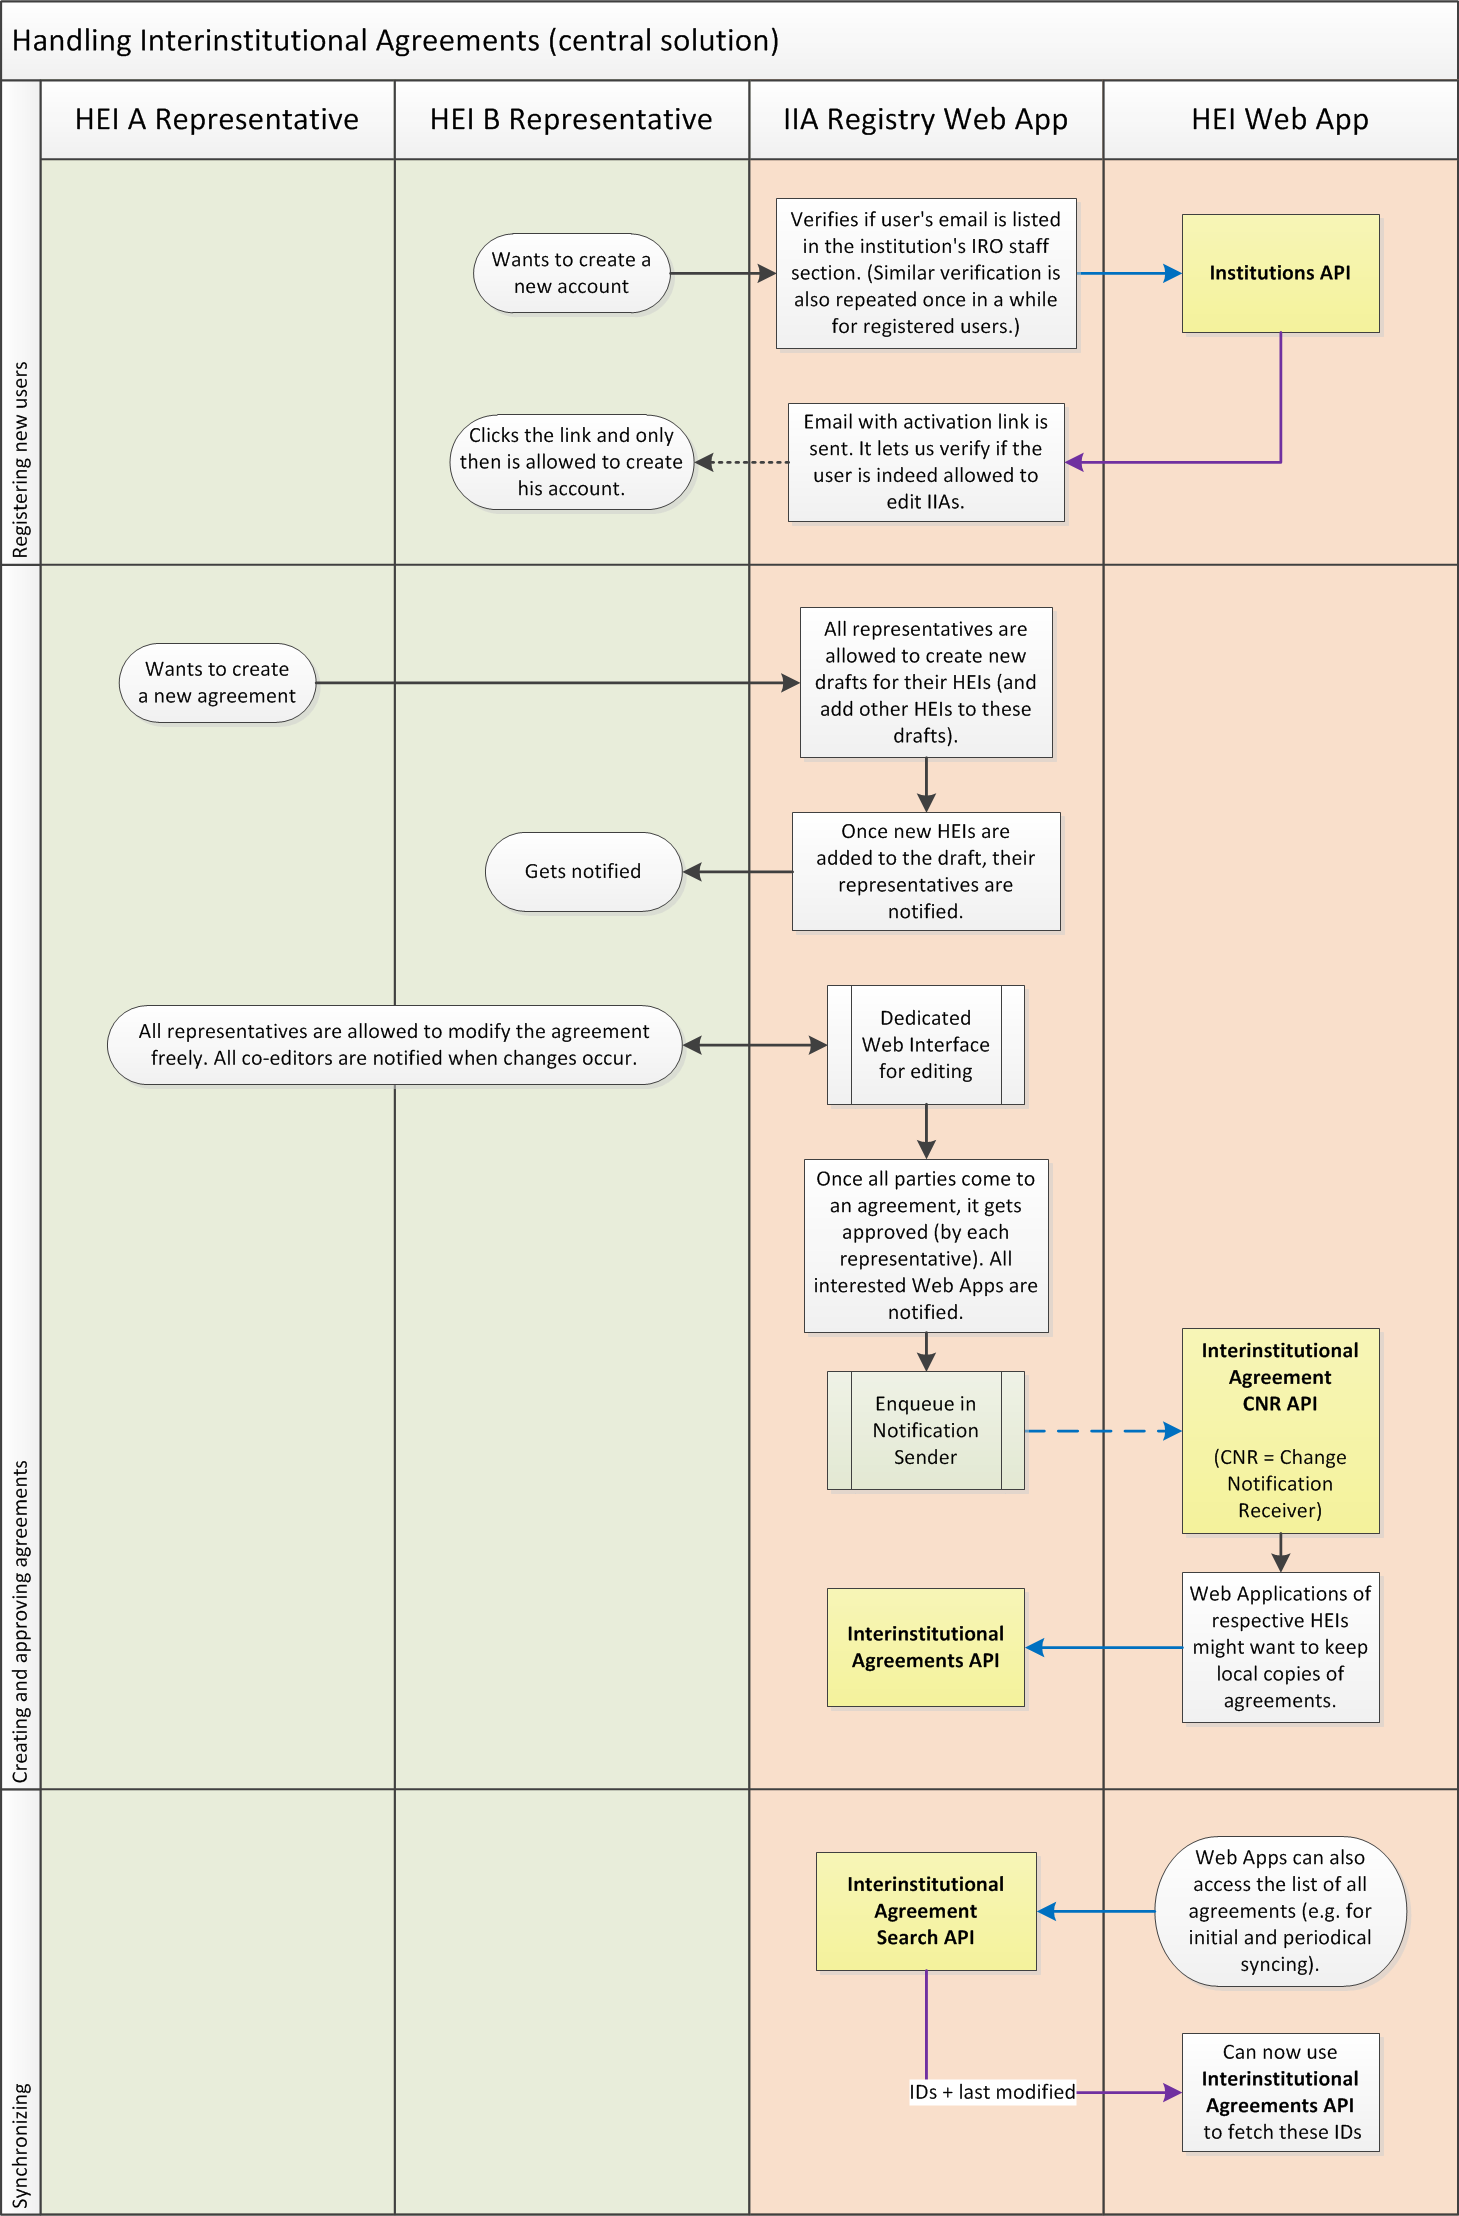
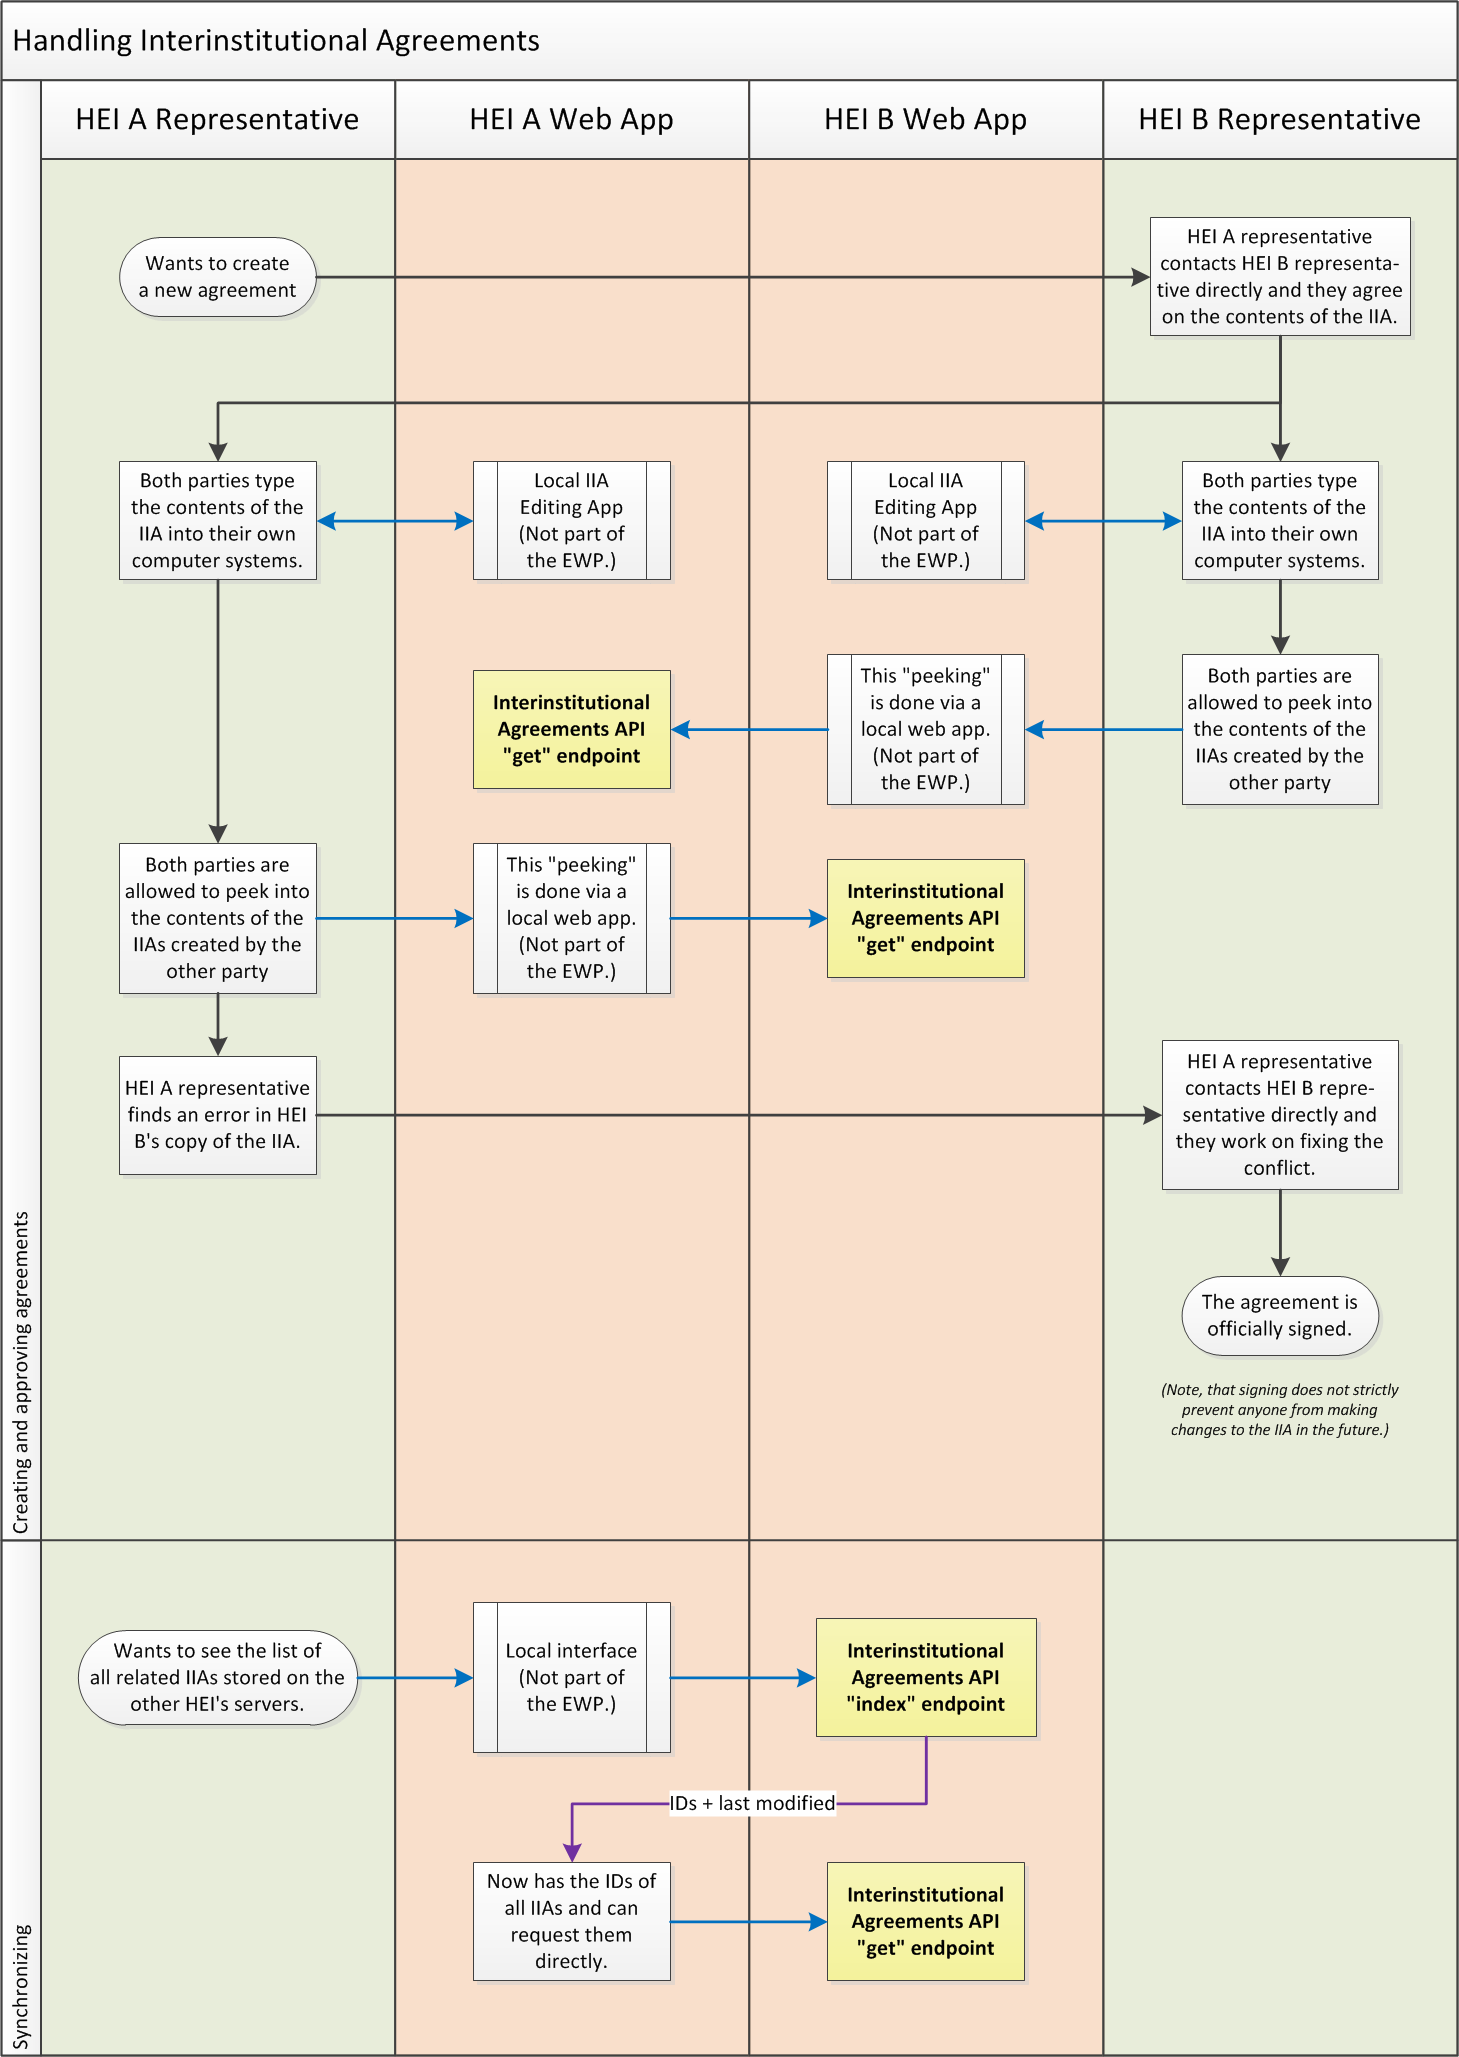
Describe the new changes to the IIA APIs
https://github.com/erasmus-without-paper/general-issues/issues/12#issuecomment-231486102

diff --git a/README.md b/README.md
@@ -16,8 +16,8 @@ useful to get a quick grasp on which APIs are used by whom and when.
 Accessing information on Institutions
 -------------------------------------
 
-These APIs allow the members of the EWP Network to discover basic
-information on other institutions and departments covered by the network. This
+The following APIs allow the members of the EWP Network to discover basic
+information on institutions and departments covered by other EWP Hosts. This
 kind of information is also known as **fact sheets**.
 
  * **[Institutions API][institutions-api]** - e.g. address, contact persons,
@@ -30,7 +30,19 @@ kind of information is also known as **fact sheets**.
    departments, e.g. address, contact persons, institutes or other kinds of
    subunits, etc.
 
-![Usage examples of Institution, Department and Fact Sheet APIs](flowcharts/fact-sheets.png)
+**Note:** While these enable you discover more information on EWP Hosts, the
+actual *index* of all EWP Hosts is provided by the [Registry Service]
+[registry-intro]).
+
+**Some examples of usage:**
+
+ * An IRO staff member wants to obtain contact details of some other IRO.
+ * Some automation script wants to obtain all email addresses of IRO members of
+   a specific HEI and notify them after some important event occurs.
+ * A student of one HEI wants to obtain a link to ECTS catalogue of some other
+   HEI.
+ * A developer wants to implement an autocomplete feature for searching
+   departments in a foreign institution.
 
 
 <a name="notification-senders"></a>
@@ -42,7 +54,7 @@ CNR stands for **Change Notification Receiver**, and it is a special class of
 API we use in EWP. We have already mentioned them in the [EWP Architecture]
 [architecture] document, but now we should explain how they work in detail.
 
-CNR is simply a callback URL for [push notifications]
+**CNR APIs are simply a callback URLs** for [push notifications]
 (https://en.wikipedia.org/wiki/Push_technology):
 
  * Partners subscribe for such notifications by implementing a chosen CNR API
@@ -59,7 +71,7 @@ CNR is simply a callback URL for [push notifications]
    temporary I/O errors caused by, for example, a malfunction on the receiver's
    servers.
 
-The following flowchart presents this process:
+The following flowchart presents the basic flow of the process:
 
 ![Example algorithm of a Notification Sender Daemon](flowcharts/notification-sender.png)
 
@@ -79,35 +91,63 @@ entities).
 Handling Interinstitutional Agreements (IIAs)
 ---------------------------------------------
 
-All HEIs taking part in the mobility process must sign an IIA first.
+All HEIs taking part in the mobility process sign an IIA first. Key facts about
+all such IIAs are stored in computer systems of all HEIs taking part of this
+IIA. **You can use the following APIs to synchronize these facts.**
 
-In order to use EWP Network in your mobility process, key facts about all IIAs
-MUST be stored in a central **EWP IIA repository**. It is a web application
-(with a user interface), which keeps track of all the changes and provides the
-latest copy of the agreement to all of the partners.
+* **[Interinstitutional Agreements API][iias-api]**:
 
-Related APIs:
+  - Implemented by each of the partners. (Not strictly required, but
+    RECOMMENDED.)
+  - `index` endpoint allows **HEI A** to access the list of all IIAs related to
+    **HEI A** stored on **HEI B**'s servers.
+  - `get` endpoint allows **HEI A** to access the content of an agreement
+    (IIA), exactly as it is currently stored on **HEI B**'s servers (and this
+    enables both HEIs to find inconsistencies more easily).
 
-* **[Interinstitutional Agreements API][iias-api]**
-
-  - Implemented by the IIA Repository, called by the institutions.
-  - Allows to access the exact contents of agreements (IIAs) by given IDs.
-
-* **[Interinstitutional Agreement Search API][iia-search-api]**
-
-  - Implemented by the IIA Repository, called by the institutions.
-  - Allows partners to fetch a list of all of their agreements stored in the
-    repository.
+    ![Handling IIAs](flowcharts/iias.png)
 
 * **[Interinstitutional Agreement CNR API][iia-cnr-api]**
 
-  - Implemented by *institutions*, called by the *IIA Repository* (reversed!).
-  - When implemented, it gets called whenever an IIA is updated. This allows
-    the partners to always have an up-to-date copy. [What's a CNR?][cnr]
+  - Implemented by each of the partners. (OPTIONAL.)
+  - When implemented, it gets called whenever an IIA is updated on the other
+    party's servers. This allows the partners to keep a close eye on all the
+    changes to the IIA copies throughout the network. [What's a CNR?][cnr]
 
-The following flowchart presents the entire process:
+    ![Example of IIA CNR API usage](flowcharts/iia-cnr.png)
 
-![Handling IIAs (central solution)](flowcharts/iias.png)
+
+Outgoing Mobility object
+------------------------
+
+In EWP's model, entire history of a single student mobility is enclosed in so
+called *Outgoing Mobility* object. This includes:
+
+ * Information about the student, optional photo, the ID of the related IIA,
+   identifiers of the sending and receiving institutions, etc.
+
+ * Nomination dates: when they were initially reported, when they were
+   approved, or even "un-approved", etc.
+
+ * Learning Agreements: How they looked initially, when they were initially
+   approved, how (and when) they were later changed, and by whom, and how
+   they looked "in the end". (Learning Agreements are modified quite often,
+   throughout the entire mobility.)
+
+ * Recognitions: Which of the courses in the Learning Agreement were recognized
+   by the sending institution after the mobility has ended.
+
+ * Course identifiers, arrival/departure dates, and many more.
+
+What's important to remember for now is that most of the mobility-related
+actions performed in EWP can be thought as **adding a new entry to the Outgoing
+Mobility timeline**.
+
+It's also worth noting, that partners are not required to implement all
+features of the mobility timeline. E.g. we allow the partners to implement
+nominations only, while leaving Learning Agreements to be implemented later on
+(see `<timeline-features-supported>` element in the [Outgoing Mobility Remote
+Update API][mobility-update-api]'s `manifest-entry.xsd`).
 
 
 <a name="common-workflow"></a>
@@ -118,39 +158,6 @@ Workflow in general
 All mobility-related features in EWP use a common set of APIs, and have a
 similar workflow. This chapter introduces some basic concepts, which we will
 later apply to specific use cases.
-
-
-### Outgoing Mobility object
-
-In EWP, entire history of a single student mobility is enclosed in so
-called *Outgoing Mobility* object. This includes:
-
- * Information about the student, optional photo, the ID of the related IIA,
-   identifiers of the sending and receiving institutions, etc.
-
- * Nominations: when they were initially reported, when they were approved,
-   or even "un-approved", etc.
-
- * Learning Agreements: How they looked initially, when they were initially
-   approved, how (and when) they were later changed, and by whom, and how
-   they looked "in the end". (Learning Agreements are modified quite often,
-   throughout the entire mobility.)
-
- * Recognitions: Which of the courses in the Learning Agreement were recognized
-   by the sending institution after the mobility has ended.
-
- * And many more, e.g. course identifiers, arrival and departure dates... (See
-   **Outgoing Mobilities API** for details.)
-
-What's important to remember is that most of the mobility-related actions
-performed in EWP can be thought as **adding a new entry to the Outgoing
-Mobility history**.
-
-It's also worth noting, that partners are not required to implement all
-features of the mobility timeline. E.g. we allow the partners to implement
-nominations only, while leaving Learning Agreements for later (see
-`<timeline-features-supported>` element in the [Outgoing Mobility Remote Update
-API][mobility-update-api]'s `manifest-entry.xsd`).
 
 
 ### `S-MASTER` vs. `R-MASTER`
